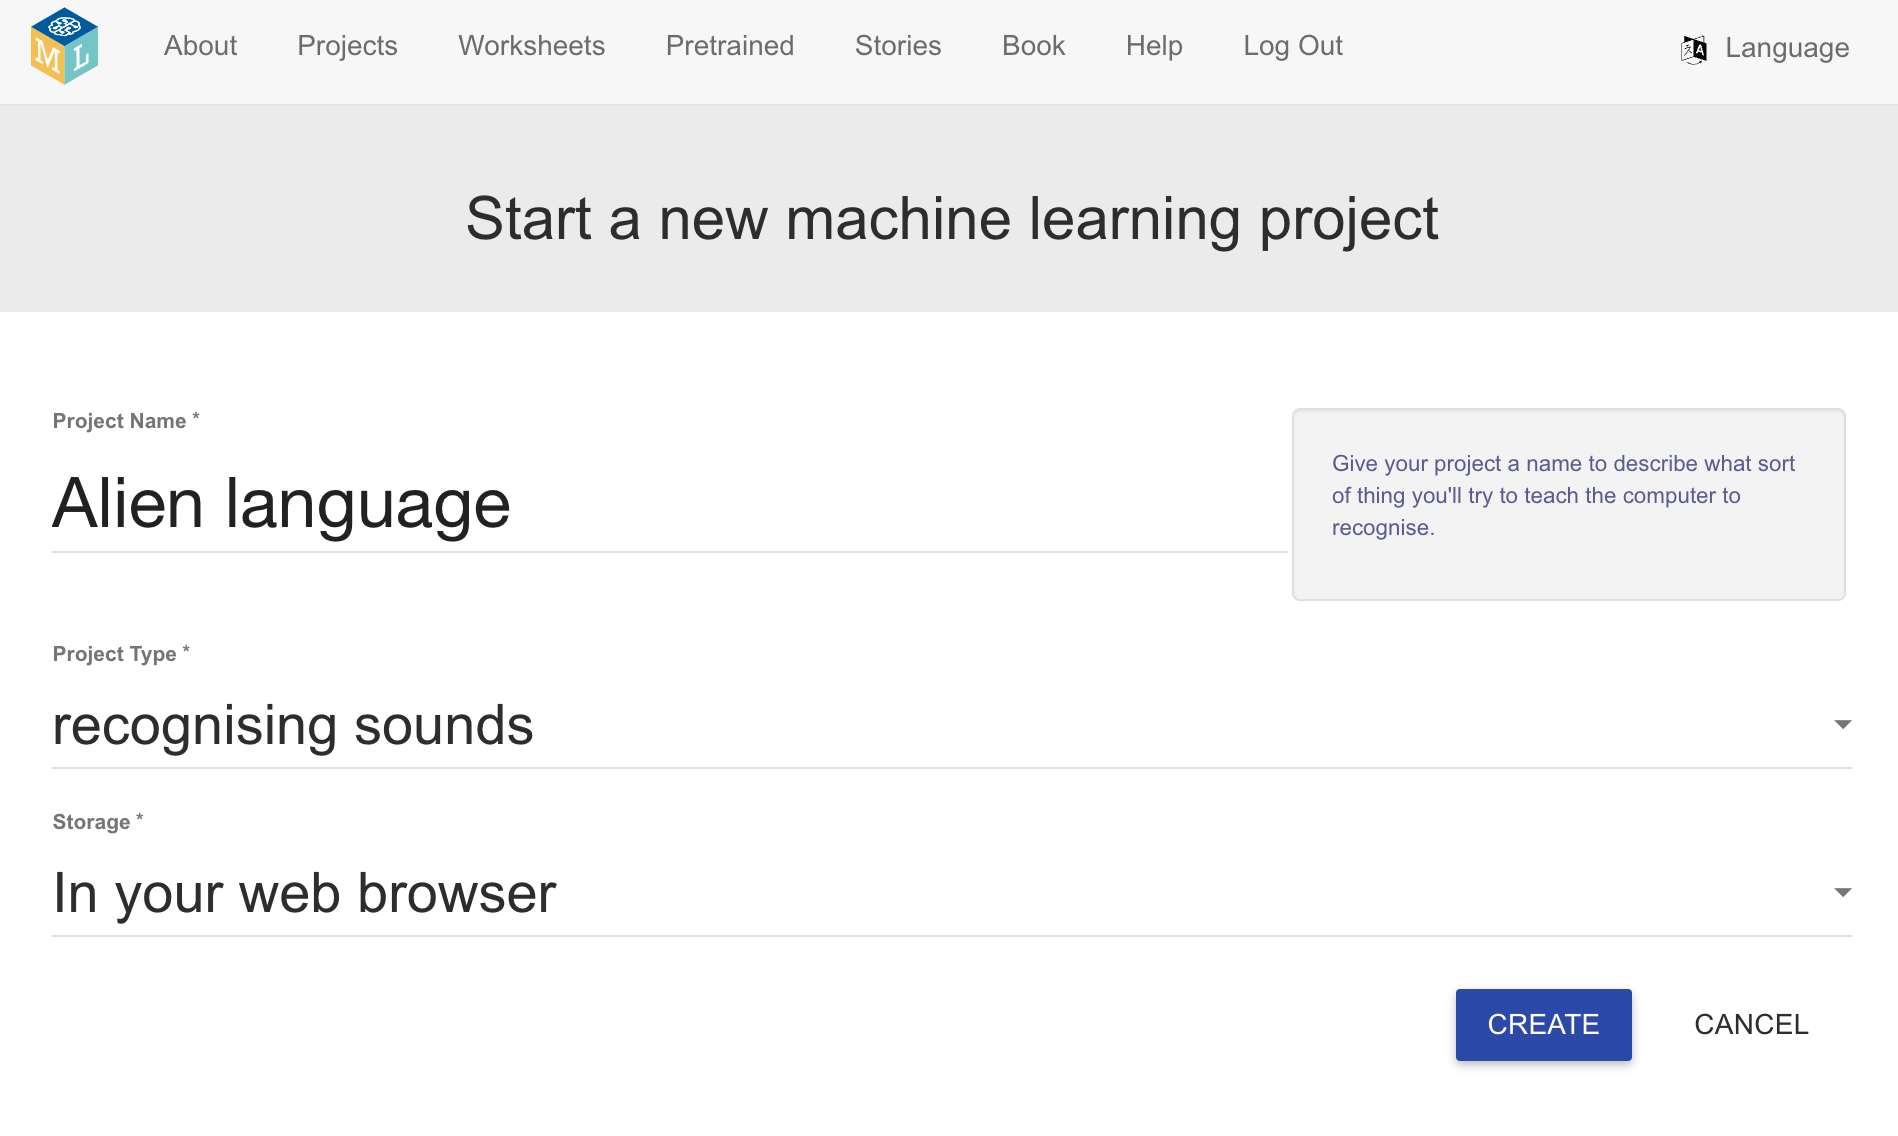
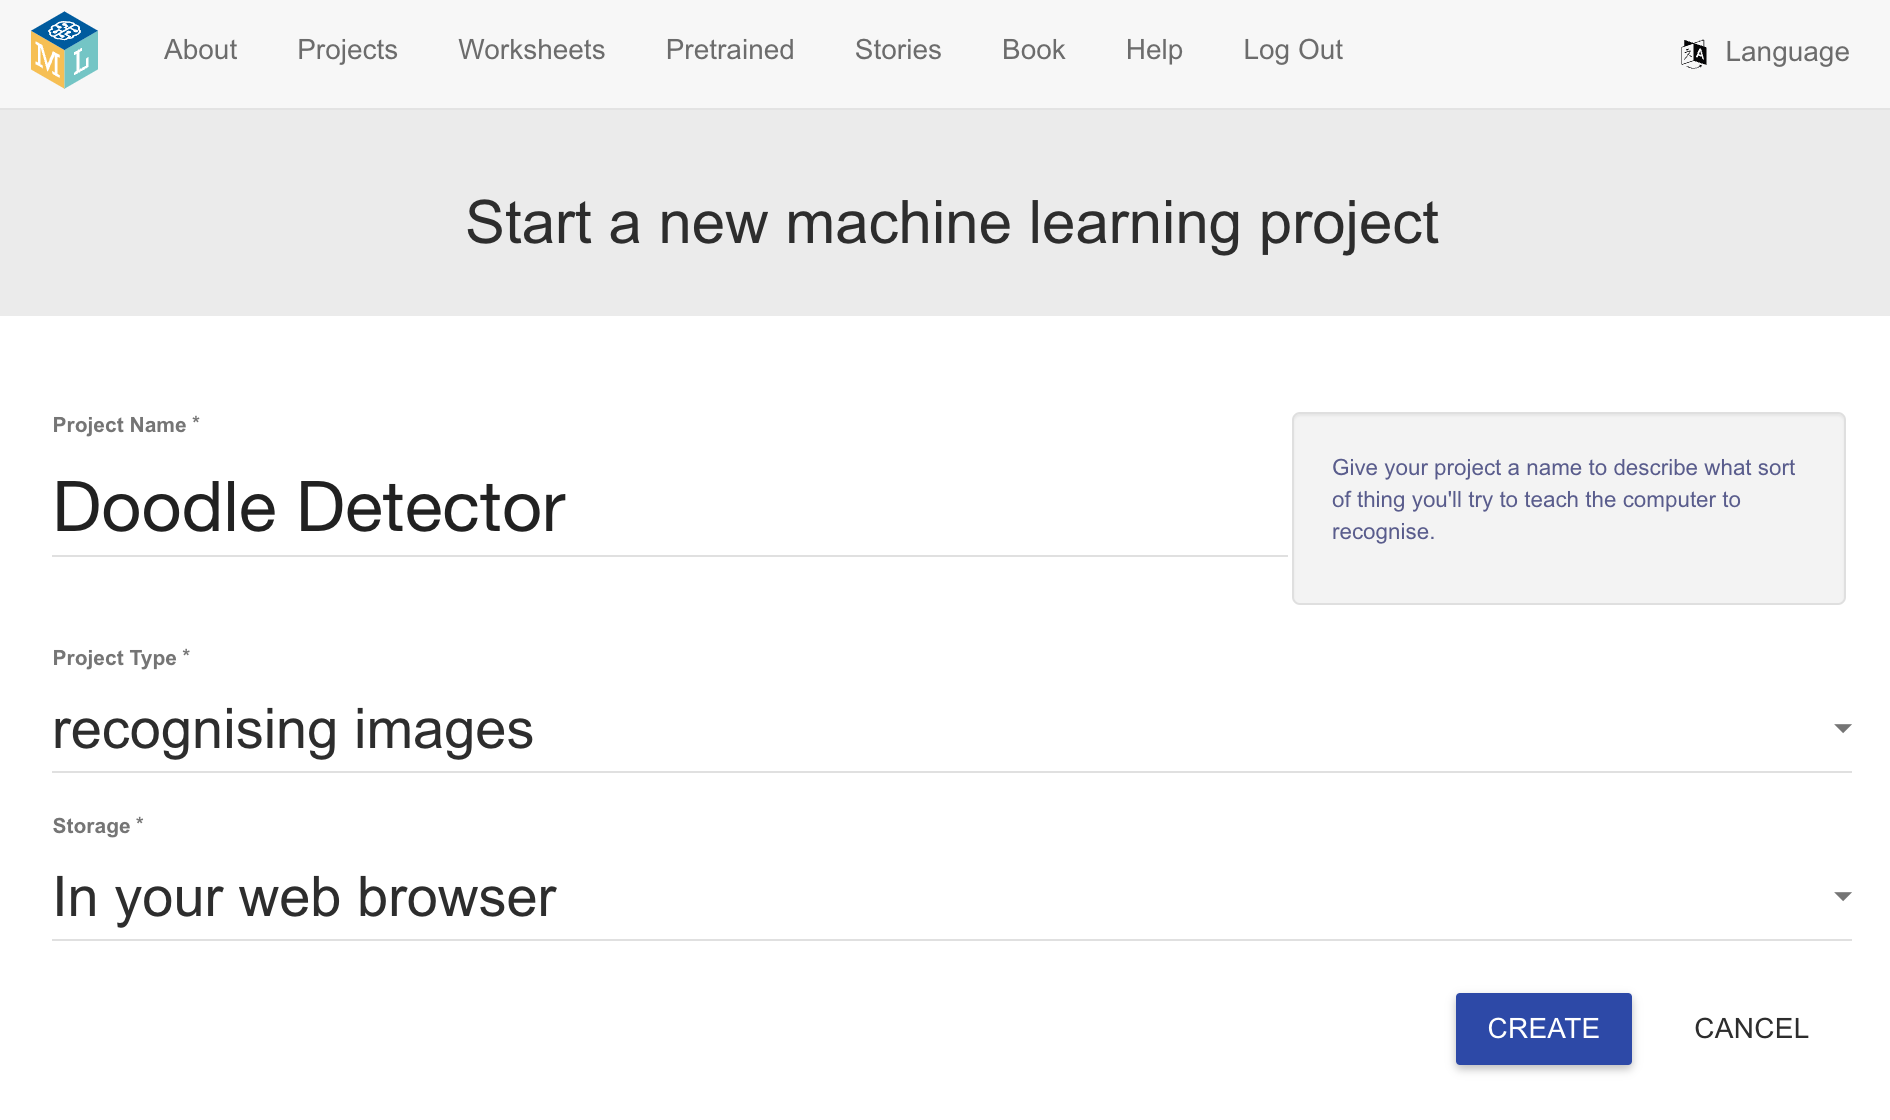
Update 3

diff --git a/en/step_3.md b/en/step_3.md
@@ -1,35 +1,36 @@
 ## Draw some examples
 
-You are going to draw two different images several times. This will help your machine learning model to tell the difference between what you are drawing.
+You are going to draw two different images several times. This will teach your machine learning model to tell the difference between the two drawings. We have chosen banana and apple, but you can choose other things to draw if you prefer.
 
 --- task ---
-+ Click the **+ Add example** button in **background noise**.
-
-+ Click on the microphone but don't say anything, to record 2 seconds of background noise.
-![Arrow pointing to microphone button](images/record-button.png)
-
-+ Click the **Add** button to save your recording.
++ Click on **+Add new label** on the top right of the screen and add a label called `banana`. 
 --- /task ---
 
 --- task ---
-+ Repeat those steps until you have **at least eight examples** of background noise.
++ Click the **Draw** button in **banana**.
+--- /task ---
+
+--- task ---
++ Draw a picture of a banana in the box
+
+![A hand drawn picture of a banana](images/draw-banana.png)
+
++ Click the **Add** button to save your drawing.
+--- /task ---
+
+--- task ---
++ Repeat those steps until you have **at least eight examples** of bananas - try to draw them in different ways so there is a variety.
 ![bucket filled with 8 background examples](images/8-background.png)
 --- /task ---
 
-Invent two alien words — a word that means "left" and a word that means "right".
-
-Now you will record eight examples of each word so that your machine learning model can learn to recognise them.
-
 --- task ---
-+ Click on **+ Add new label** on the top right of the screen and add a label called `left`.
++ Click on **+ Add new label** on the top right of the screen and add a label called `apple`.
 --- /task ---
 
 --- task ---
-+ Click on **+ Add example** inside the box for the new `left` label, and record yourself saying your alien word for "left". 
++ Click on **Draw** inside the box for the new `apple` label, and draw a picture of an apple. 
 
-+ Repeat until you have recorded **at least eight examples**.
++ Repeat until you have drawn **at least eight examples**.
 --- /task ---
 
---- task ---
-+ **+ Add new label** to create another label called `right` and record eight examples of your alien word for "right". 
---- /task ---
+
